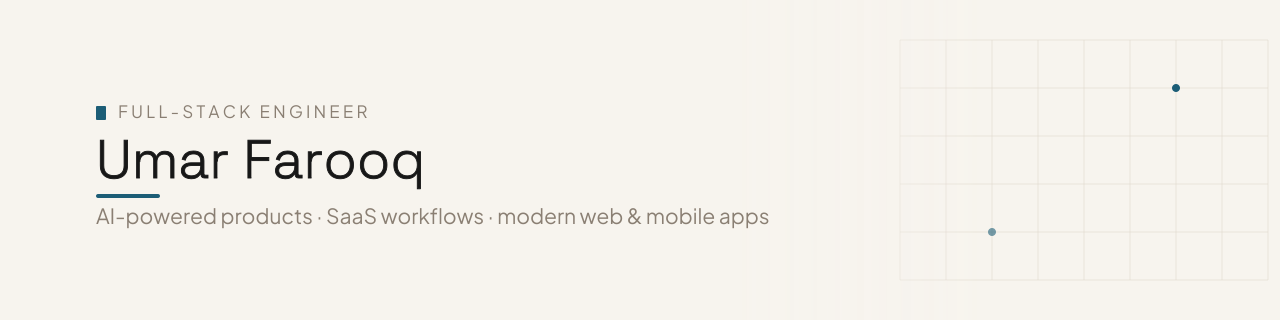
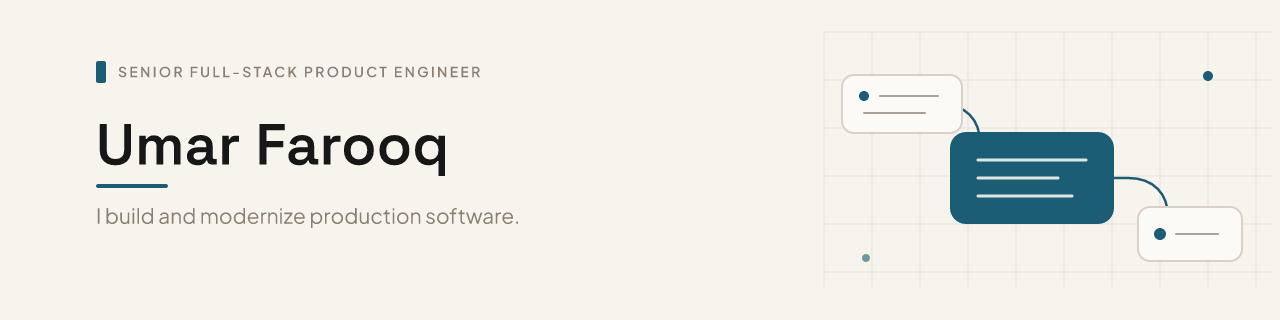
feat: align GitHub profile proof

diff --git a/README.md b/README.md
@@ -1,39 +1,29 @@
 <p align="center">
-  <img src="./assets/banner.png" alt="Umar Farooq — Full-Stack Engineer helping startups build AI-powered products" />
+  <img src="./assets/banner.png" alt="Umar Farooq — Senior Full-Stack Product Engineer building and modernizing production software" />
 </p>
 
 # Umar Farooq
 
-Full-Stack Engineer helping startups build AI-powered products, SaaS workflows, internal tools, and modern web/mobile apps.
+**Senior Full-Stack Product Engineer building and modernizing production software.**
 
-I work across frontend, backend, mobile, and product delivery to turn scoped product ideas into production-ready systems. My focus is building software that is clear, useful, scalable, and aligned with real business needs.
+I work hands-on across web, mobile, backend, integrations, and practical AI. I help founders and product teams ship a focused new build, improve an inherited product, or add a bounded capability with clear acceptance checks and a production handoff.
 
-## What I build
+## Selected product work
 
-- AI-powered product workflows
-- SaaS platforms and internal tools
-- Modern web applications
-- Mobile apps with Flutter
-- Product-focused full-stack systems
+- **[CraveUp](https://mumar.dev/case/craveup-restaurant-platform?utm_source=github)** — named employer work; hands-on contribution across customer ordering, merchant operations, React Native staff workflows, and shared Node.js services.
+- **[Resumi](https://mumar.dev/case/resumi?utm_source=github)** — full-stack contribution across structured editing, live preview, AI assistance, sharing, export, and Stripe-backed billing gates. [Live demo](https://resumi.mumar.dev/)
+- **[FormPilot](https://mumar.dev/case/formpilot?utm_source=github)** — full-stack intake-to-triage workflow; submissions are validated and persisted before asynchronous OpenAI Responses SDK extraction. [Live demo](https://formpilot.mumar.dev/)
+- **[StudyAI](https://mumar.dev/case/study-ai?utm_source=github)** — public-source product-leadership proof; product direction, acceptance criteria, and review. Engineering implementation was completed by the project team. [Source](https://github.com/mumar20/studyai)
 
-## Work I can walk through
+[View all 12 case studies →](https://mumar.dev/work?utm_source=github)
 
-- **[FormPilot AI](https://mumar.dev/case/formpilot)** — AI-assisted intake and workflow product, packaged as a flagship private case study.
-- **[Resumi](https://mumar.dev/case/resumi)** — private resume-focused product work for creating and presenting polished professional profiles.
-- **[Invoicery](https://mumar.dev/case/invoicery)** — private client-management and invoicing workflow product for business operations.
+## Core technologies
 
-Some product work is private, so I discuss it through sanitized walkthroughs, case-study notes, and controlled demos rather than public source links.
-
-## Core stack
-
-`React` `Next.js` `TypeScript` `Node.js` `Flutter` `Tailwind CSS` `PostgreSQL` `Prisma` `Sanity` `OpenAI`
-
-## Current focus
-
-I am most interested in working with startup founders and product teams building AI-powered products, internal tools, SaaS workflows, and modern customer-facing platforms.
+`React` `Next.js` `TypeScript` `Node.js` `PostgreSQL` `Flutter` `React Native` `OpenAI`
 
 ## Links
 
-- **Portfolio & case studies:** [mumar.dev](https://mumar.dev)
+- **Portfolio:** [mumar.dev](https://mumar.dev?utm_source=github)
+- **Upwork:** [Hire me on Upwork](https://www.upwork.com/freelancers/~01fd315cf120ba92ec)
 - **LinkedIn:** [linkedin.com/in/mumar20](https://www.linkedin.com/in/mumar20/)
-- **Book intro call:** [cal.com/umar-farooq-gqime0](https://cal.com/umar-farooq-gqime0)
+- **Intro call:** [Book a 30-minute intro call](https://cal.com/umar-farooq-gqime0/30min?utm_source=github&utm_medium=profile&utm_campaign=intro_call&utm_content=readme)
